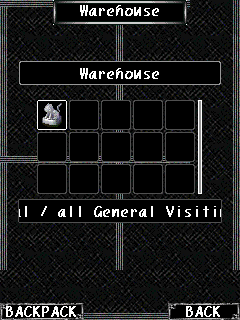
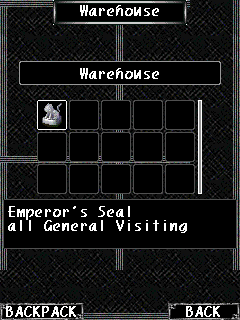
Gamevil Live: full item description in the Warehouse and the auction
The wide description box (config.WIDE_DESC) now shows in Gamevil Live too, instead of
the one-line running strip: Warehouse / Backpack, Buy (lots), Sell (price) and Gift List.

- ORIG-BUG B10: m.java:257 Buy lots used the same 255 - 84 + fK[6] as B9, putting the
  rows under the description strip; now centred, rows y 136..200.
- ORIG-BUG B11: m.bl() Sell price described the backpack item even when selling from the
  warehouse (empty box); now describes the warehouse item.
- Sell price / Gift List: the wide box sits under the price box / gift box.

Builds on #55 (B9). Tests, README, updated gamevil_live shots.

Claude-Session: https://claude.ai/code/session_01Pra1enbyG86zsz2TvpMV8f

Changed region(s): [[0.0, 0.625, 0.9917, 0.7812]]

diff --git a/pyport/tests/test_live_wide_desc.py b/pyport/tests/test_live_wide_desc.py
@@ -1,0 +1,69 @@
+"""Gamevil Live: the full (wide) description instead of the running strip, and the layouts
+that make room for it (ORIG-BUG B10 Buy lots, B11 Sell price from the warehouse)."""
+import os
+
+os.environ.setdefault("SDL_VIDEODRIVER", "dummy")
+
+import config  # noqa: E402
+
+
+def test_wide_description_in_gamevil_live(monkeypatch):
+    from pow.game.game_canvas import GameCanvas
+    from pow.game.menus import Menus
+    calls = []
+    monkeypatch.setattr(Menus, "draw_wide_description", lambda self: calls.append("wide"))
+    monkeypatch.setattr(config, "WIDE_DESC", True)
+    monkeypatch.setattr(GameCanvas, "state", 11)
+    Menus.draw_description_strip(Menus.__new__(Menus))
+    assert calls == ["wide"]
+
+
+def test_buy_lots_grid_above_the_description(monkeypatch):
+    """ORIG-BUG B10: the 2 rows of lots end at the description strip (y 200)."""
+    from pow.game.game_canvas import GameCanvas
+    from pow.game.live import Live
+    from pow.game.live_screen import LiveScreen
+    tops = []
+    monkeypatch.setattr(LiveScreen, "draw_hero_gold", lambda self, y: tops.append(y))
+    monkeypatch.setattr(LiveScreen, "draw_centred_box", lambda self, y, w, h: 20)
+    monkeypatch.setattr(LiveScreen, "draw_number_commas", lambda *a: None)
+    monkeypatch.setattr(Live, "draw_text_centred_in", staticmethod(lambda *a: None))
+    monkeypatch.setattr(Live, "draw_item_cell", staticmethod(lambda *a: None))
+    stub = type("M", (), {"draw_item_grid": lambda self, y, items, marks: tops.append(y),
+                          "draw_description_strip": lambda self: None})()
+    monkeypatch.setattr(GameCanvas, "menus", stub)
+    monkeypatch.setattr(GameCanvas, "describe_shop_item", lambda *a: None)
+    monkeypatch.setattr(GameCanvas, "draw_softkeys", lambda *a: None)
+    monkeypatch.setattr("pow.game.live_screen.Gfx.set_font", lambda *a: None)
+    monkeypatch.setattr(Live, "category", 2)
+    GameCanvas.cursor[6] = 32 * 2 - 4 + 2
+    GameCanvas.cursor[18] = 0
+    LiveScreen.draw_buy_lots(LiveScreen.__new__(LiveScreen))
+    gold, grid = tops
+    assert gold >= 22 and grid + GameCanvas.cursor[6] <= 200, tops
+
+
+def test_sell_price_describes_the_warehouse_item(monkeypatch):
+    """ORIG-BUG B11: selling from the warehouse describes the warehouse item, and the wide box
+    sits under the price box (y 210..232), not over the item."""
+    from pow.game.game_canvas import GameCanvas
+    from pow.game.live import Live
+    from pow.game.live_screen import LiveScreen
+    seen = []
+    monkeypatch.setattr(config, "WIDE_DESC", True)
+    monkeypatch.setattr(GameCanvas, "describe_shop_item", lambda item, *a: seen.append(item))
+    monkeypatch.setattr(LiveScreen, "draw_panel", lambda *a: None)
+    monkeypatch.setattr(LiveScreen, "draw_input_box", lambda *a: None)
+    monkeypatch.setattr(Live, "draw_text_centred_in", staticmethod(lambda *a: None))
+    monkeypatch.setattr(Live, "draw_item_cell", staticmethod(lambda *a: None))
+    monkeypatch.setattr("pow.game.live_screen.Gfx.set_font", lambda *a: None)
+    monkeypatch.setattr("pow.game.menus.Menus.item_name", staticmethod(lambda *a: ""))
+    monkeypatch.setattr(GameCanvas, "draw_softkeys", lambda *a: None)
+    monkeypatch.setattr(GameCanvas, "menus", type("M", (), {"draw_description_strip": lambda self: None})())
+    monkeypatch.setattr(GameCanvas, "hero", type("H", (), {"backpack": ["bp"] * config.BACKPACK_SIZE})())
+    monkeypatch.setattr(Live, "warehouse", ["wh"] * config.WAREHOUSE_SIZE)
+    GameCanvas.cursor[18] = 0
+    Live.flags[7] = 1
+    LiveScreen.draw_sell_price(LiveScreen.__new__(LiveScreen))
+    assert seen == ["wh"]
+    assert GameCanvas.info_box.rect.y + GameCanvas.view_y >= 234

diff --git a/pyport/pow/game/live_screen.py b/pyport/pow/game/live_screen.py
@@ -61,8 +61,13 @@ class LiveScreen(Live):
         self.draw_input_box(45, 210, 150, 22)
         Gfx.set_font(GameCanvas.font_black)
         Live.draw_text_centred_in(GameCanvas.format_thousands(Live.values[14]), 0, 212, 240)
-        GameCanvas.describe_shop_item(GameCanvas.hero.backpack[GameCanvas.cursor[18]], True, -1)
+        items = GameCanvas.hero.backpack
+        if config.ORIG_BUG["B11"] and Live.flags[7] == 1:   # ORIG-BUG B11: sold from the warehouse
+            items = Live.warehouse
+        GameCanvas.describe_shop_item(items[GameCanvas.cursor[18]], True, -1)
         GameCanvas.info_box.rect.y = 155 - GameCanvas.view_y
+        if config.WIDE_DESC:            # PORT-EXTRA: the tall box under the price box, not over the item
+            GameCanvas.info_box.rect.y = 238 - GameCanvas.view_y
         GameCanvas.menus.draw_description_strip()
         GameCanvas.draw_softkeys(7, 2)
 
@@ -105,6 +110,8 @@ class LiveScreen(Live):
             Live.draw_text_centred_in(Live.gift_from[Live.selected_slot], i, 170, 100)
             Live.draw_text_centred_in(Menus.item_name(Live.lots[Live.selected_slot].id), i, 183, 100)
             GameCanvas.describe_shop_item(Live.lots[Live.selected_slot], False, -1)
+            if config.WIDE_DESC:        # PORT-EXTRA: the tall box under the gift box (y 166..211)
+                GameCanvas.info_box.rect.y = 216 - GameCanvas.view_y
             GameCanvas.menus.draw_description_strip()
 
     @staticmethod
@@ -198,7 +205,10 @@ class LiveScreen(Live):
         GameCanvas.draw_softkeys(-1, 2)
 
     def draw_buy_lots(self):  # m.java:256-276  (Buy: the lots of a page)
-        j = 20 + (255 - 84 + GameCanvas.cursor[6] + 10 + 32 >> 1)
+        if config.ORIG_BUG["B10"]:     # ORIG-BUG B10: centre gold + box + grid + strip, grid above the strip
+            j = 20 + (255 - (84 + GameCanvas.cursor[6] + 10 + 32) >> 1)
+        else:
+            j = 20 + (255 - 84 + GameCanvas.cursor[6] + 10 + 32 >> 1)
         self.draw_hero_gold(j)
         j += 42
         i = self.draw_centred_box(j, 200, 32)

diff --git a/pyport/config.py b/pyport/config.py
@@ -64,6 +64,11 @@ ORIG_BUG = {
     "B9": True,  # m.bv() 365 Gamevil Live Backpack / Warehouse grid: 255 - 38 + fK[6] puts the caption at
                  # y 194 under the description strip and the 3 rows at y 232..326, under the soft keys
                  # -> 255 - (38 + fK[6] + 16 + 22): caption y 62, rows y 100..194, strip y 200
+    "B10": True,  # m.java:257 Gamevil Live Buy, the lots of a page: the same 255 - 84 + fK[6] puts the
+                  # 2 rows of lots at y 218..282 under the description strip (y 200)
+                  # -> 255 - (84 + fK[6] + 10 + 32): gold y 52, rows y 136..200, strip y 200
+    "B11": True,  # m.bl() Gamevil Live Sell, the price: the strip describes ag.cz.Y[fK[18]] (the backpack)
+                  # also when the item is sold from the warehouse -> empty or another item's text
 }
 
 # Gamevil Live of the single player (pow_server/live.py): "local" = the server inside the game

diff --git a/pyport/pow/game/menus.py b/pyport/pow/game/menus.py
@@ -1227,7 +1227,7 @@ class Menus(GameCanvas):
 
     def draw_description_strip(self):  # e.java:1595-1630  (description strip; scrolls when longer than the box)
         info = GameCanvas.info_box
-        if config.WIDE_DESC and GameCanvas.state != 11:   # Gamevil Live (11): the strip sits on its grid
+        if config.WIDE_DESC:
             self.draw_wide_description()
             return
         self.draw_box(info.rect.x + GameCanvas.view_x, info.rect.y + GameCanvas.view_y, info.rect.w, info.rect.h, False)

diff --git a/pyport/README.md b/pyport/README.md
@@ -122,7 +122,8 @@ R3 геймпада вмикає й вимикає режим. Герой сам
 **Широкий опис** (PORT-EXTRA `config.WIDE_DESC`): опис предмета, скіла чи зілля в Blacksmith, Gear,
 Inventory, Skills і Assign Items — у рамці на всю ширину екрана, до трьох рядків (назва, стати, рівень,
 ціна), замість вузької смужки, де текст біжить одним рядком. Якщо й трьох рядків мало, біжить лише
-останній. У Gamevil Live смужка лишилася як була (там під нею сітка). `POW_WIDE_DESC=0` — як в оригіналі.
+останній. Так само в Gamevil Live: Warehouse / Backpack, Buy (лоти), Sell (ціна; рамка під полем ціни, щоб
+не закрити предмет) і Gift List (рамка під коробкою подарунка). `POW_WIDE_DESC=0` — як в оригіналі.
 
 **Геймпад / джойстик** (PORT-EXTRA `pow/midp/gamepad.py`, `config.GAMEPAD`): лівий стік і хрестовина =
 стрілки (герой іде, поки тримаєш), A = OK / удар, B = BACK, X / Y / LB / RB / LT = п'ять скілів,
@@ -296,6 +297,8 @@ platform»), тому `pow/midp/graphics.py` у браузері декодує 
 | B7 | `e.java` 2694-2707 | Blacksmith → Combine, коли предметів менше трьох: попап 39 виходить поверх сітки, яка зберігає прокрутку й курсор (`fK[8]`, `fK[18]`) останнього екрана із сіткою. Після 9-рядкового Warehouse у Gamevil Live вони вказують за `af[24]`, і виникає ArrayIndexOutOfBounds. Тепер прокрутка й курсор скидаються |
 | B8 | `ag.java` 872-967 | вхід на карту обнуляє дані ефекту ворога (`fn = null`), але не його вид, хоча вид ефекту героя обнуляє. Генерал, який був посеред скіла, лишає вид 2, і наступний ворог читає `fn[..]`, тобто NullPointerException. Тепер вид теж обнуляється |
 | B9 | `m.bv()` 365 | Gamevil Live, сітка Backpack / Warehouse (і Sell): `255 - 38 + fK[6]` замість `255 - (38 + fK[6] + 16 + 22)` ставить заголовок під смугу опису (y 194), а 3 ряди сітки на y 232..326, під софт-кнопки. Тепер заголовок y 62, сітка y 100..194, смуга опису під нею (y 200) |
+| B10 | `m.java` 257 | Gamevil Live, Buy, лоти сторінки: та сама помилка, `255 - 84 + fK[6]` замість `255 - (84 + fK[6] + 10 + 32)`, ставить 2 ряди лотів на y 218..282, під смугу опису (y 200). Тепер золото y 52, ряди y 136..200, смуга під ними |
+| B11 | `m.bl()` 97 | Gamevil Live, Sell, ціна: смуга описує `ag.cz.Y[fK[18]]` (рюкзак) і тоді, коли предмет продається зі складу, тож опис порожній або чужий. Тепер описується предмет зі складу |
 
 ### Меню
 
